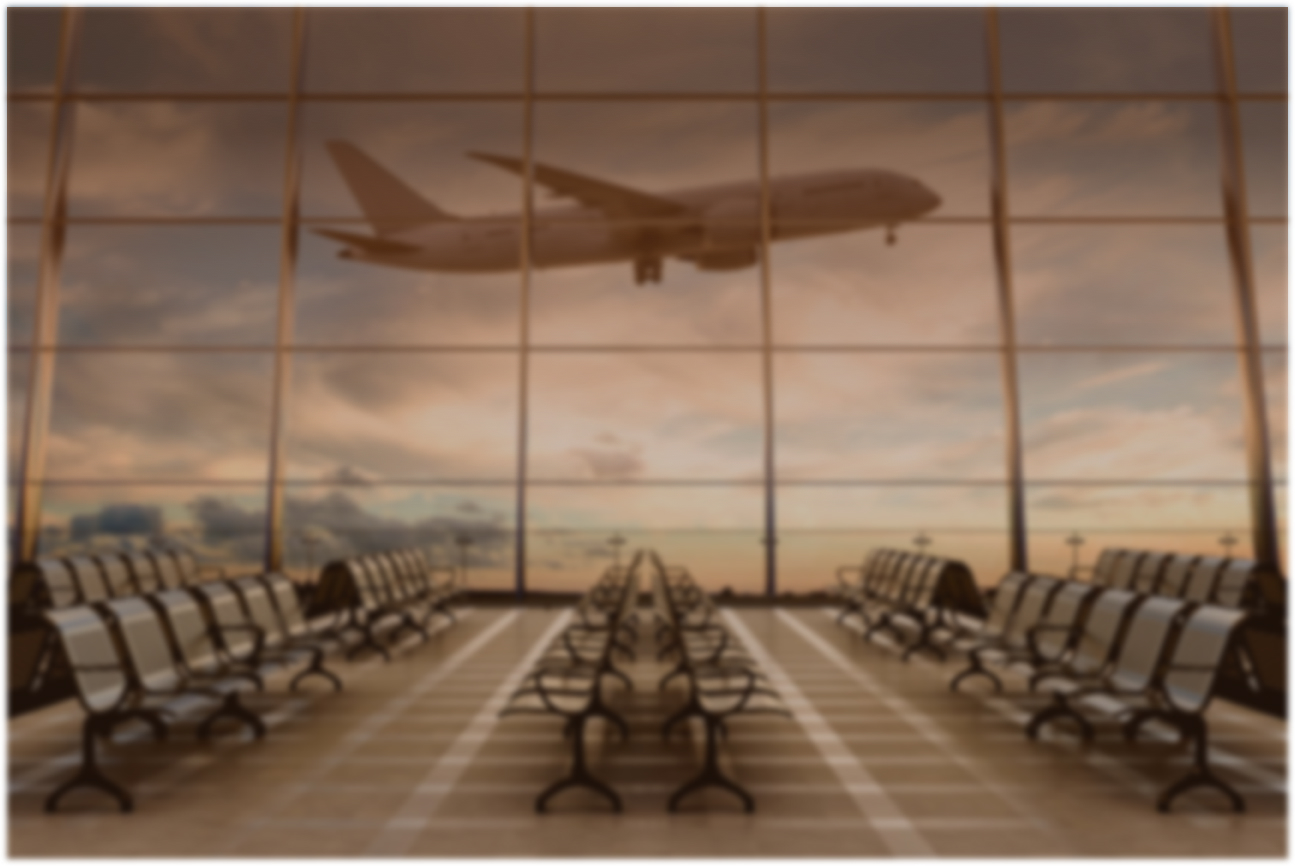
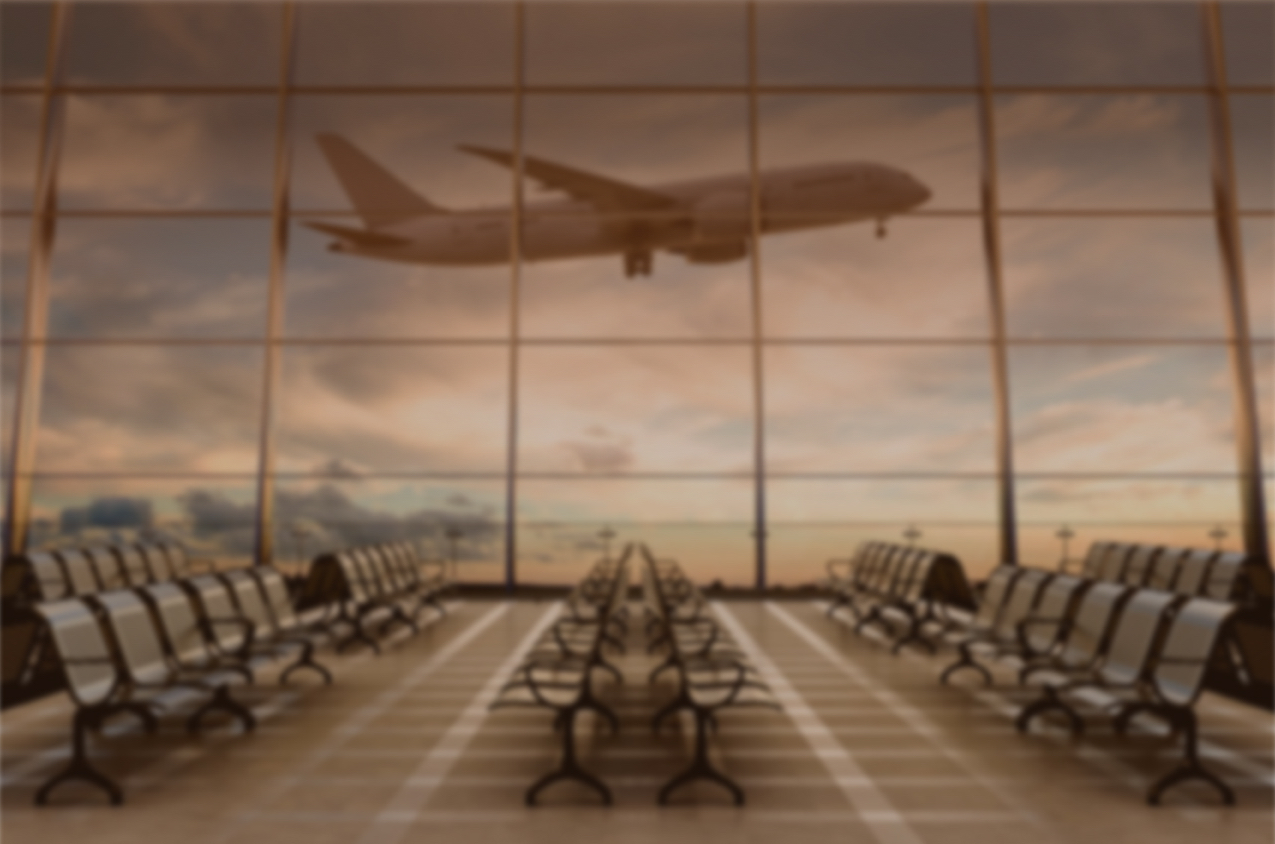
[TER-28] - Create Landing Page

diff --git a/src/screens/LandingPage.jsx b/src/screens/LandingPage.jsx
@@ -1,11 +1,13 @@
 import React from 'react'
 import { View, Text } from 'react-native';
+import background from '../assets/images/background.jpg';
+import logotype from '../assets/images/logotype.png';
 
 function LandingPage() {
   return (
-    <View>
-        <Text>Landing Page!</Text>
-    </View>
+    <div style = {{backgroundImage: `url(${background})`}}>
+        <img src = {logotype} alt = "" />
+    </div>
   )
 }
 
